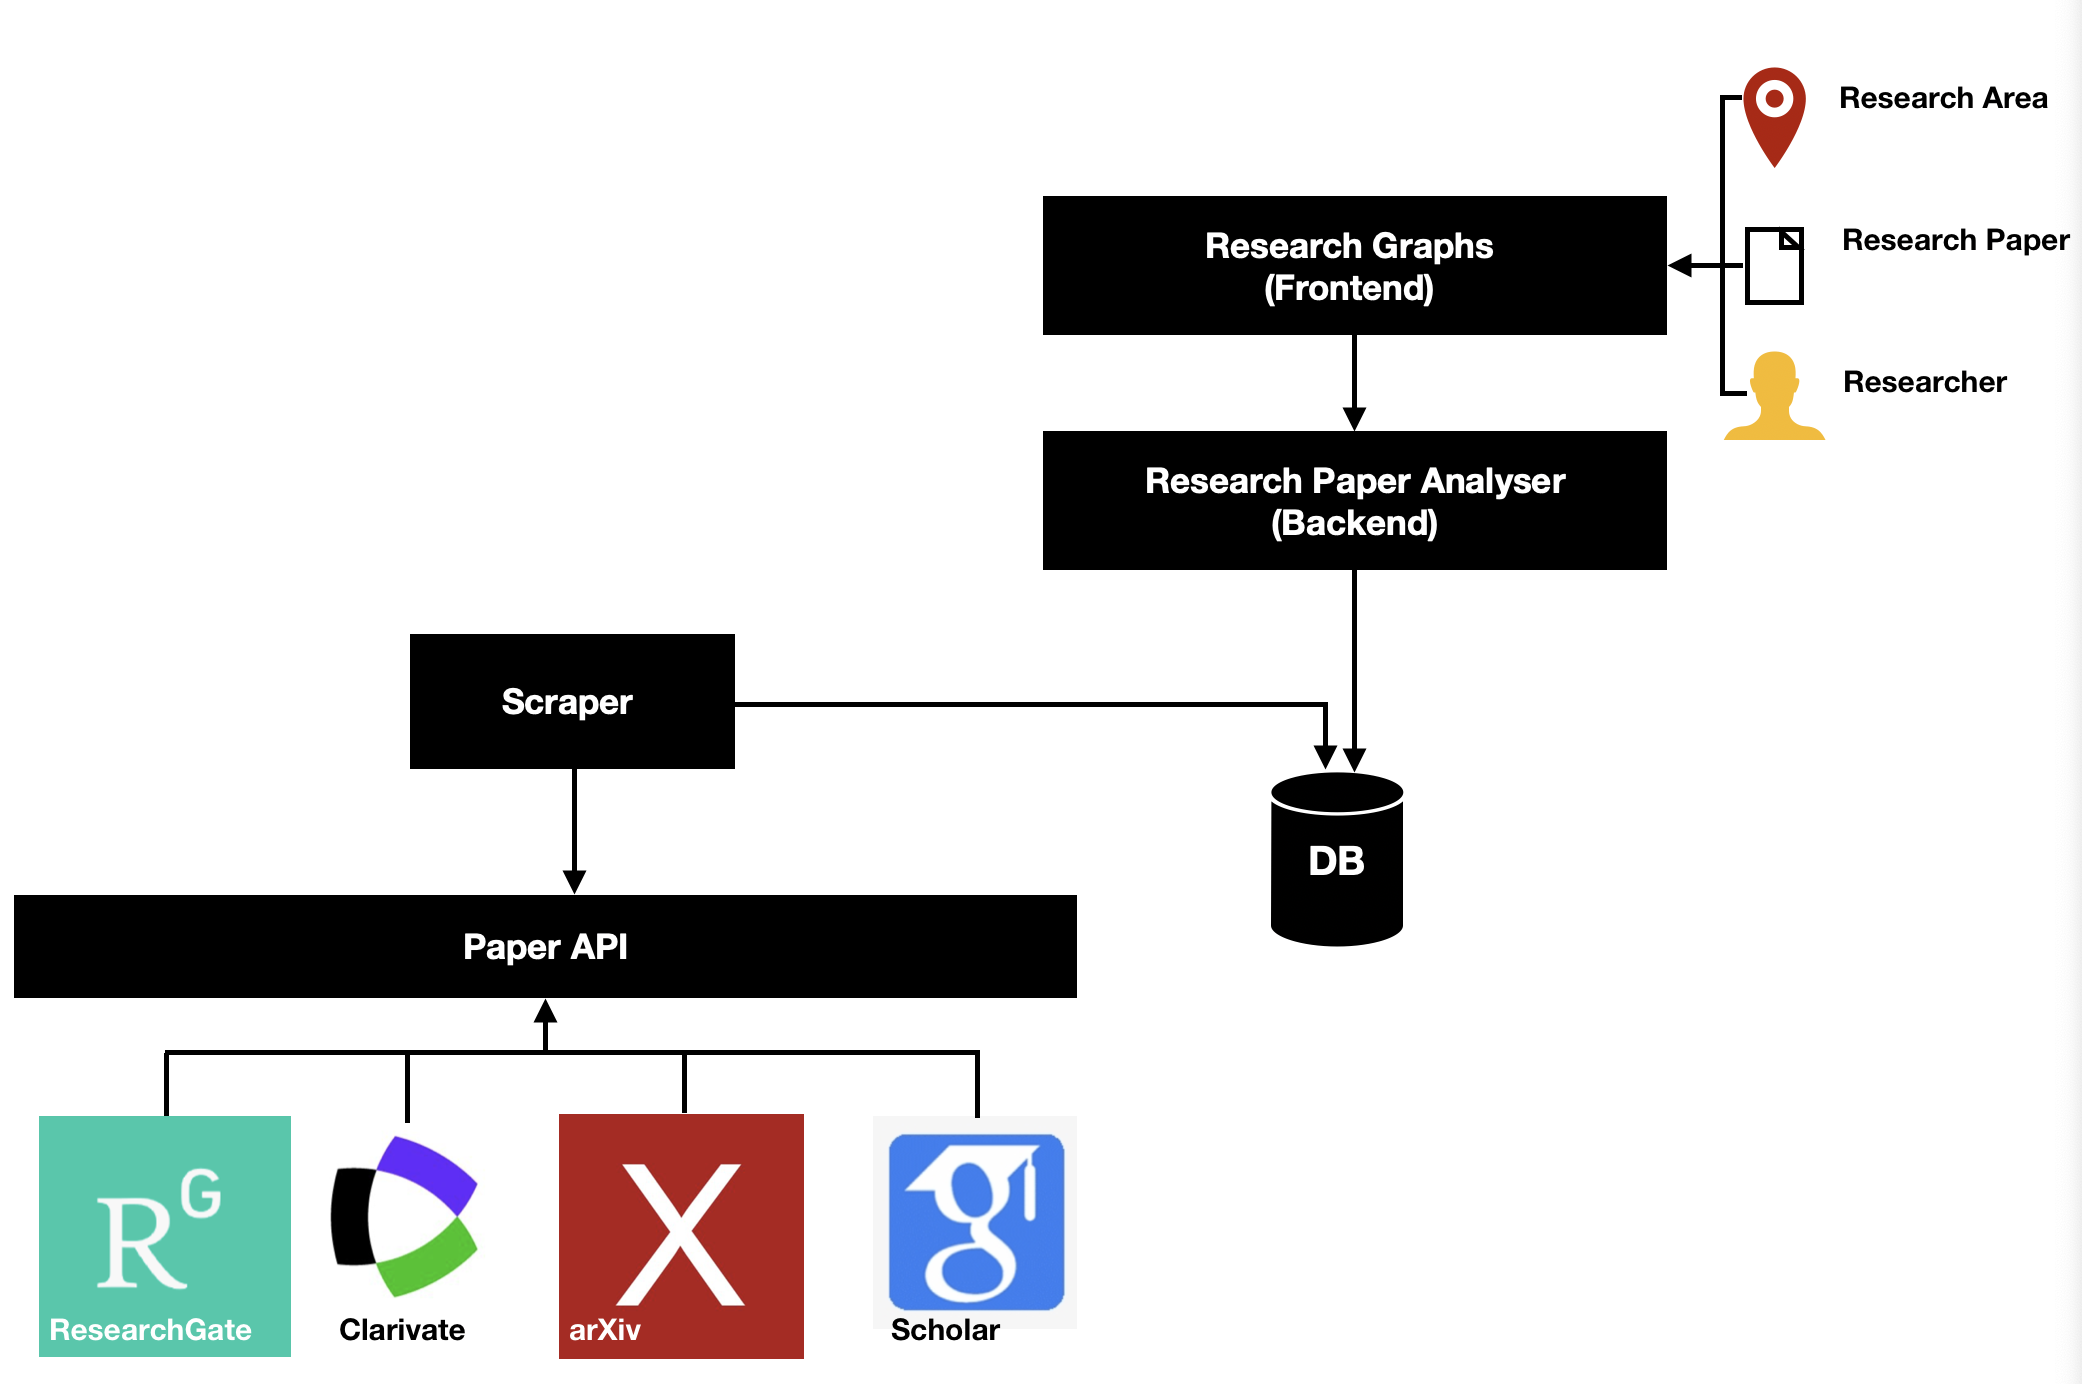
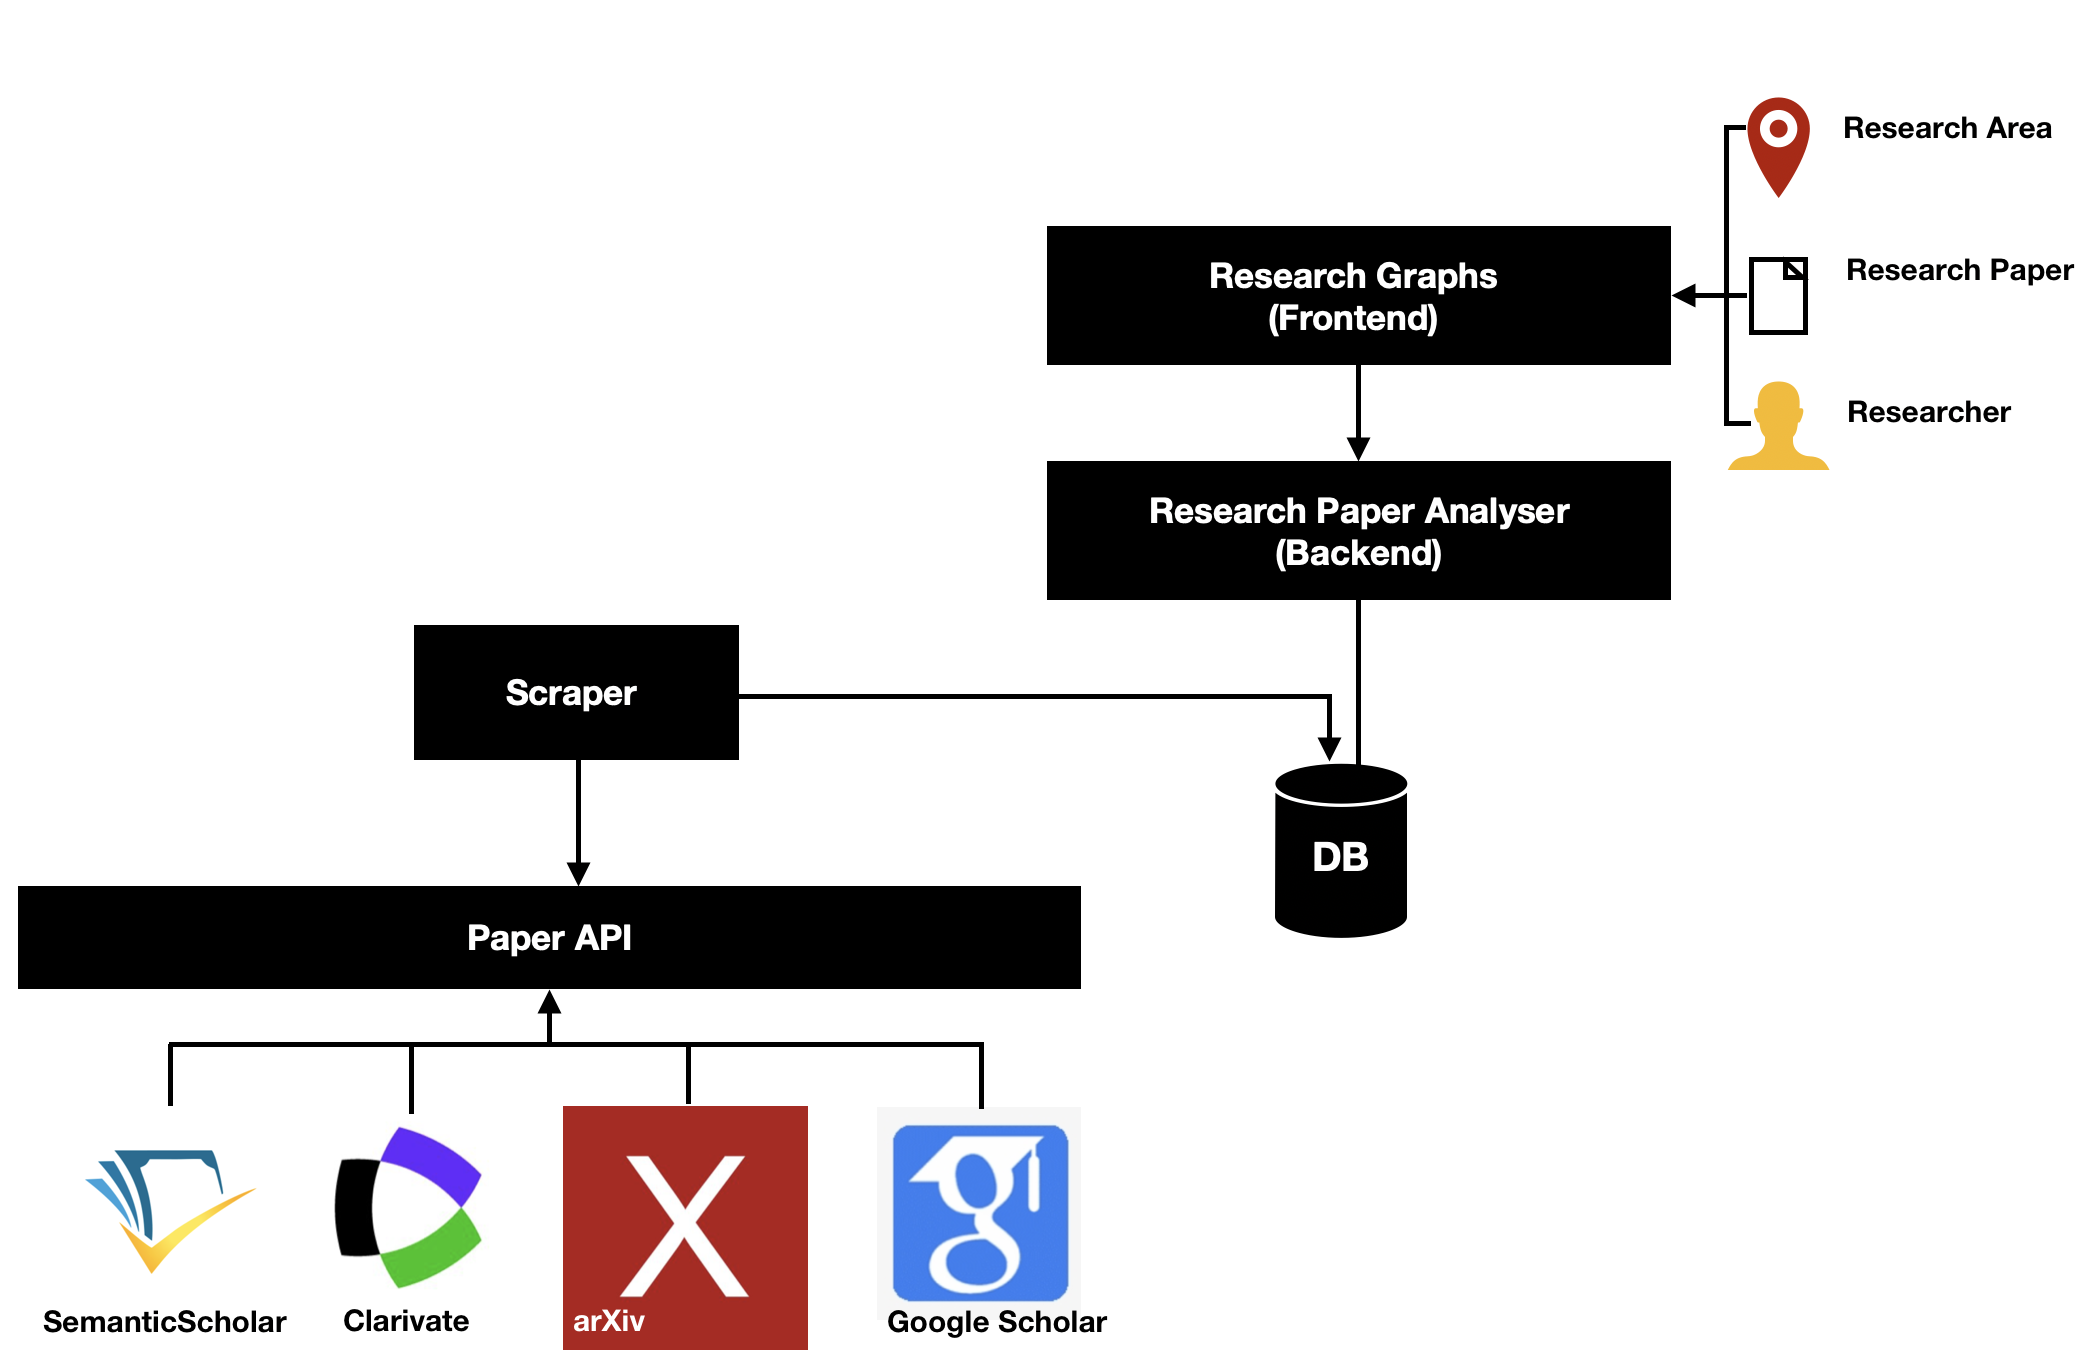
Vision Document: - I have renamed ResearchGate to Semantic Scholar. - I have described the technology stack.

diff --git a/doc/vision/vision.md b/doc/vision/vision.md
@@ -70,7 +70,7 @@ considers other researchers from these families.
 ## Architecture
 Our Research Paper Analyzer is composed of a scraper, a database, an analyzing backend and a graph-heavy frontend:
 - The scraper stores the meta information and references of research papers in a database. 
-It reads this data from a research API such as ResearchGate, Clarivate, ArXiv and Google Scholar and it 
+It reads this data from a research API such as SemanticScholar, Clarivate, ArXiv and Google Scholar and it 
 adapts the format of the data to the schema of the underlying database. 
 - The research graphs in the frontend represent firstly families of related research papers, 
 secondly research areas with their respective work, 
@@ -82,8 +82,19 @@ passes the resulting data to the frontend in an efficiently usable format.
 
 ![../img/img_03.png](../img/img_03.png)
 
+## Technologies
+- As our database we use Postgres.
+- We implement our scraper in Python and let it access the SemanticScholar Paper API.
+- We develop our backend in Python.
+- We write our frontend in Typescript and React, integrating frameworks for graph visualization.
+
+### SemanticScholar Paper API
+SemanticScholar stores metainformation about papers, their authors, and their references. 
+We can download this information and access it through an API.
+Link: https://api.semanticscholar.org 
+
 ## Scope
-- In our project we will primarily read the papers from the ResearchGate API. 
+- In our project we will primarily read the papers from the SemanticScholar API. 
 Reading other papers and information from secondary APIs is optional. 
 - We will primarily present families of papers as graphs, while we will only optionally present research areas and 
 families of communicating researchers.
